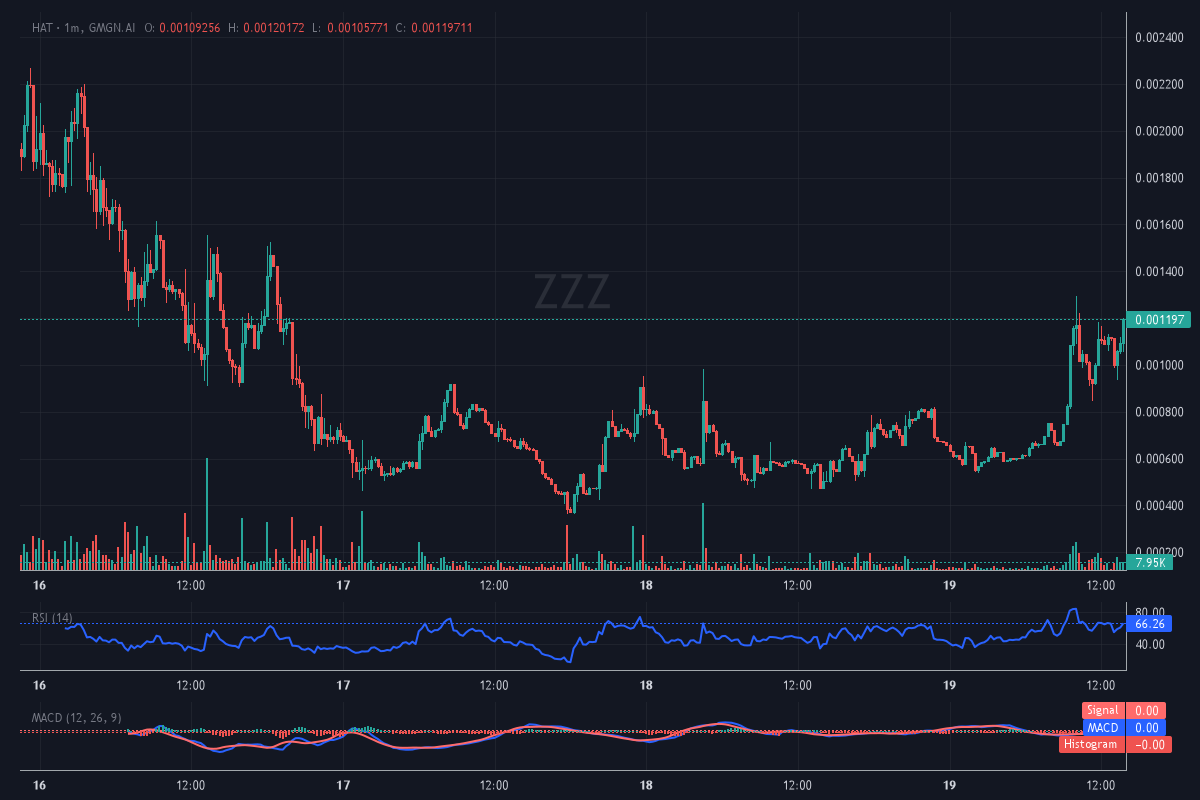
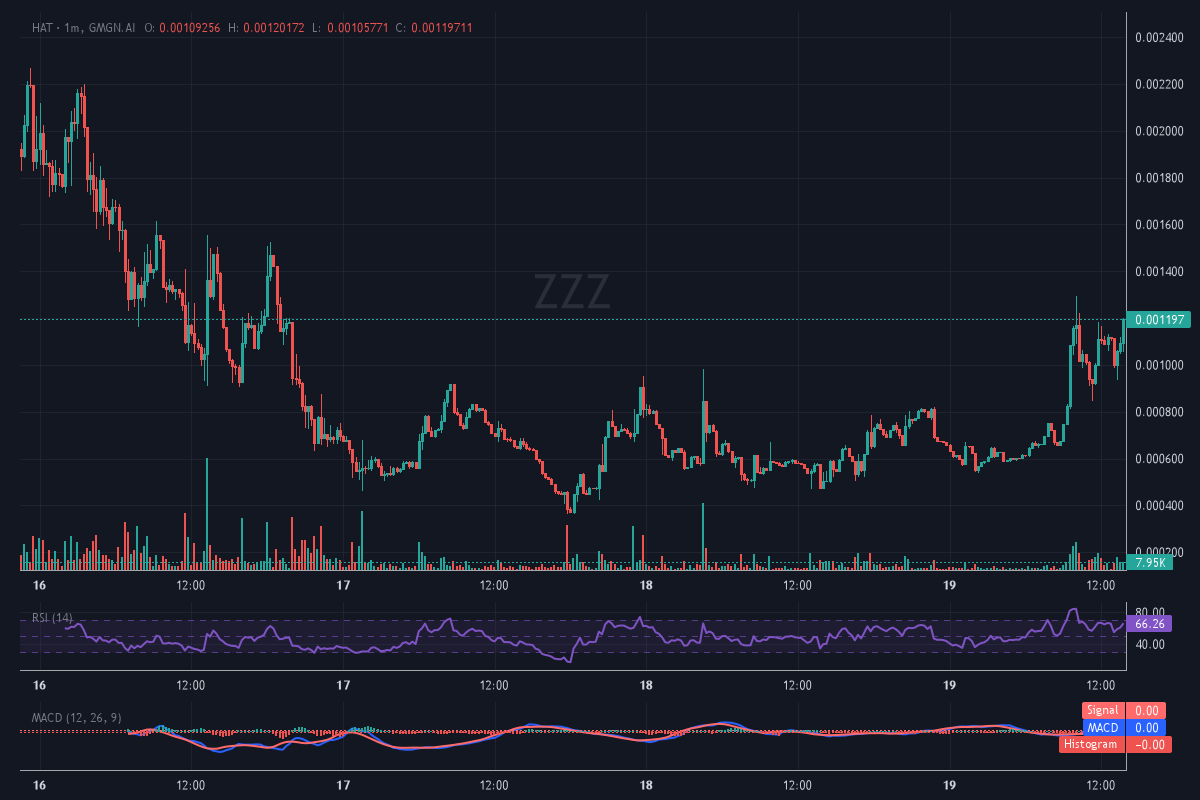
more clearly chart

Changed region(s): [[0.4625, 0.75, 0.9867, 0.8125], [0.0617, 0.7812, 0.2775, 0.8125], [0.3083, 0.7812, 0.4317, 0.8125]]

diff --git a/src/chartService.ts b/src/chartService.ts
@@ -1,7 +1,7 @@
 const { JSDOM } = require('jsdom');
-import { createChart, HorzAlign, Time, VertAlign } from 'lightweight-charts';
+import { createChart, HorzAlign, LineStyle, Time, VertAlign } from 'lightweight-charts';
 import { OHLCV } from '../types';
-import { CHART_BACKGROUND_COLOR, CHART_ITEM_GAP, CHART_PADDING_HEIGHT, CHART_PADDING_LEFT, CHART_PADDING_RIGHT, CHART_TEXT_COLOR, MACD_CHART_HEIGHT, PRIMARY_CHART_HEIGHT, RSI_CHART_HEIGHT, WATER_MARK_FONT_FAMILY, WATER_MARK_TITLE } from './consts';
+import { CHART_BACKGROUND_COLOR, CHART_ITEM_GAP, CHART_PADDING_HEIGHT, CHART_PADDING_LEFT, CHART_PADDING_RIGHT, CHART_RIGHT_PANEL_WIDTH, CHART_TEXT_COLOR, MACD_CHART_HEIGHT, PRIMARY_CHART_HEIGHT, RSI_CHART_HEIGHT, WATER_MARK_FONT_FAMILY, WATER_MARK_TITLE } from './consts';
 
 export const getChatData = (data: OHLCV[]) => {
   // Sort and map incoming data
@@ -149,7 +149,7 @@ export const getChatData = (data: OHLCV[]) => {
 };
 
 export class ChartService {
-  async generateChart(data: OHLCV[], tokenName: string, timeFrame: string, width: number, height: number) {
+  async generateChart(data: OHLCV[], width: number, height: number) {
     try {
       const setSystemConfigure = (dom: any) => {
         const window = global.window = dom.window;
@@ -194,7 +194,7 @@ export class ChartService {
         global.document = dom.window.document;
       };
 
-      const createDom = (chartData: any, height: number) => {
+      const createDom = (height: number) => {
         return new JSDOM(
           `
             <!DOCTYPE html>
@@ -259,7 +259,7 @@ export class ChartService {
       };
 
       const chartData = getChatData(data);
-      const dom = createDom(chartData.data, height);
+      const dom = createDom(height);
       setSystemConfigure(dom);
 
       console.log("Created dom and set configuration");
@@ -282,7 +282,7 @@ export class ChartService {
           rightPriceScale: {
             ...getChartConfig().rightPriceScale,
             // precision: 6,
-            minimumWidth: 70,
+            minimumWidth: CHART_RIGHT_PANEL_WIDTH,
             mode: 0,
             autoScale: true,
             scaleMargins: {
@@ -328,7 +328,7 @@ export class ChartService {
         height: RSI_CHART_HEIGHT - CHART_ITEM_GAP,
         rightPriceScale: {
           ...getChartConfig().rightPriceScale,
-          minimumWidth: 70,
+          minimumWidth: CHART_RIGHT_PANEL_WIDTH,
           scaleMargins: {
             top: 0.1,
             bottom: 0.1,
@@ -338,8 +338,19 @@ export class ChartService {
       });
 
       const rsiSeries = rsiChart.addLineSeries({
-        color: '#2962FF',
+        color: '#8054c4',
         lineWidth: 2,
+        priceLineVisible: false,
+      });
+
+      [30, 50, 70].forEach(v => {
+        rsiSeries.createPriceLine({
+          price: v,
+          color: '#8054c499',
+          axisLabelVisible: false,
+          lineWidth: 1,
+          lineStyle: LineStyle.LargeDashed,
+        });
       });
 
       console.log("Ready to draw MACD chart");
@@ -349,7 +360,7 @@ export class ChartService {
         height: MACD_CHART_HEIGHT - CHART_ITEM_GAP,
         rightPriceScale: {
           ...getChartConfig().rightPriceScale,
-          minimumWidth: 70,
+          minimumWidth: CHART_RIGHT_PANEL_WIDTH,
           scaleMargins: {
             top: 0.3,
             bottom: 0.25,

diff --git a/src/imageService.ts b/src/imageService.ts
@@ -1,5 +1,5 @@
 import { createCanvas } from "canvas";
-import { CHART_ITEM_GAP, CHART_PADDING_HEIGHT, CHART_PADDING_LEFT, CHART_WIDTH, MACD_CHART_HEIGHT, PRIMARY_CHART_HEIGHT, RSI_CHART_HEIGHT, TITLE_FONT_COLOR, TITLE_FONT_FAMILY, TITLE_FONT_SIZE, TITLE_VALUE_FONT_COLOR } from "./consts";
+import { CHART_ITEM_GAP, CHART_PADDING_HEIGHT, CHART_PADDING_LEFT, CHART_PADDING_RIGHT, CHART_RIGHT_PANEL_WIDTH, CHART_WIDTH, MACD_CHART_HEIGHT, PRIMARY_CHART_HEIGHT, RSI_CHART_HEIGHT, TITLE_FONT_COLOR, TITLE_FONT_FAMILY, TITLE_FONT_SIZE, TITLE_VALUE_FONT_COLOR } from "./consts";
 
 const sharp = require('sharp');
 
@@ -45,6 +45,14 @@ export class ImageService {
       context.fillStyle = fontColor;
       context.fillText(texts[i], textX, textYs[i]);
     }
+
+    context.fillStyle = 'rgba(128, 84, 196, 0.1)';
+    context.fillRect(
+      CHART_PADDING_LEFT, 
+      tops[1] + 18, 
+      CHART_WIDTH - CHART_PADDING_LEFT - CHART_PADDING_RIGHT - CHART_RIGHT_PANEL_WIDTH, 
+      33
+    );
 
     const startX = 112;
     const gap = 16;

diff --git a/src/index.ts b/src/index.ts
@@ -19,7 +19,7 @@ const sharp = require('sharp');
 
   try {
     // Generate chart using OHLCV data
-    const chartImagesByBuffer = await chartService.generateChart(ohlcvData, tokenName, timeFrame, width, height);
+    const chartImagesByBuffer = await chartService.generateChart(ohlcvData, width, height);
     const outputPath = path.resolve(process.cwd(), 'output.png'); // Use project root
     const chartImage = await imageService.combineImagesVertically(chartImagesByBuffer, width, height);
     const finalImage = await imageService.addTextToImage(chartImage, getChatData(ohlcvData).data, tokenName, timeFrame, {});

diff --git a/src/consts.ts b/src/consts.ts
@@ -10,6 +10,8 @@ export const CHART_PADDING_LEFT = 20;
 export const CHART_PADDING_RIGHT = 4;
 export const CHART_ITEM_GAP = 4;
 
+export const CHART_RIGHT_PANEL_WIDTH = 70;
+
 export const TITLE_FONT_SIZE = 12;
 export const TITLE_FONT_FAMILY = "-apple-system, BlinkMacSystemFont, 'Trebuchet MS', Roboto, Ubuntu, sans-serif";
 export const TITLE_FONT_COLOR = '#787B86';
